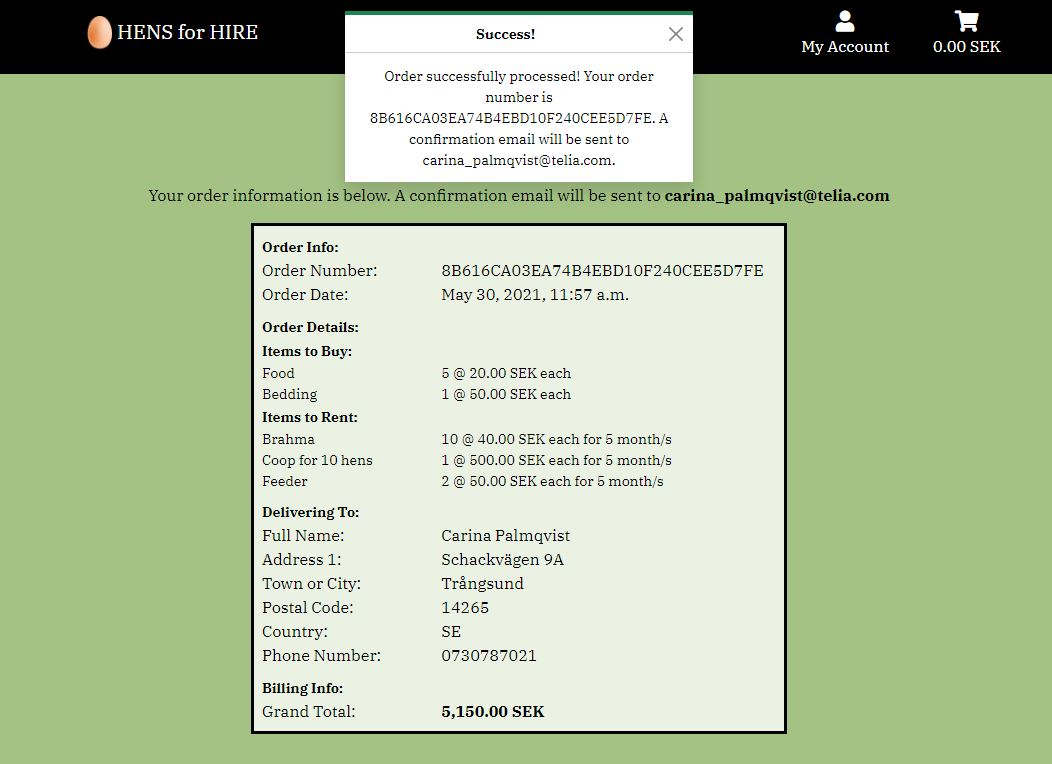
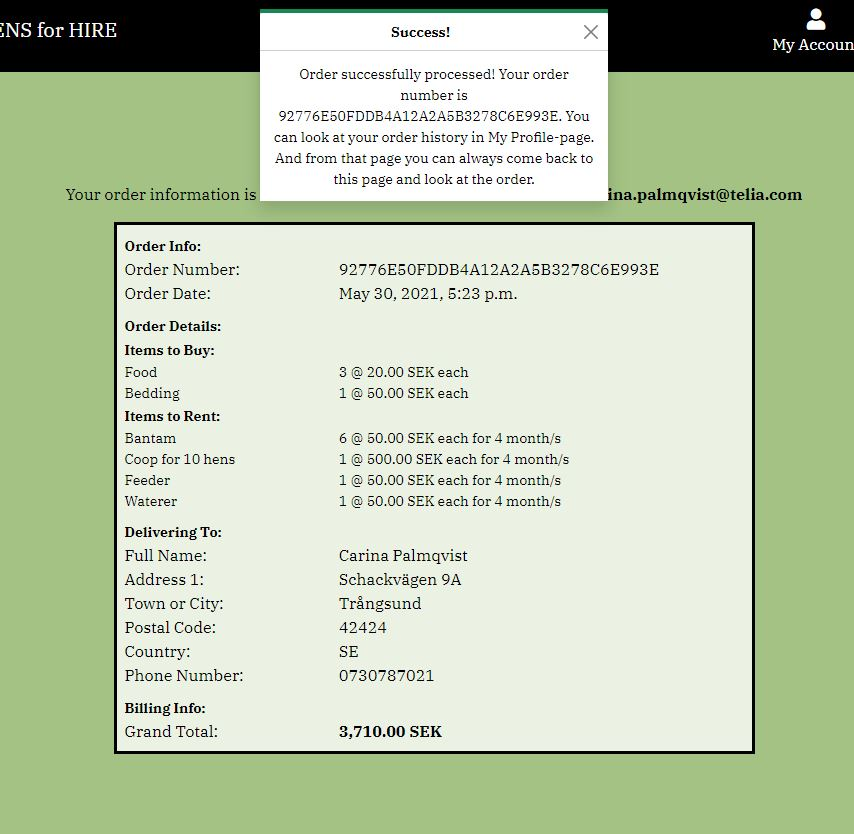
Checkout: Updated message for checkout success

diff --git a/checkout/views.py b/checkout/views.py
@@ -391,8 +391,9 @@ def checkout_success(request, order_number):
                 user_profile_form.save()
 
     messages.success(request, f'Order successfully processed! \
-        Your order number is {order_number}. A confirmation \
-            email will be sent to {order.email}.')
+        Your order number is {order_number}. You can look at your order history in\
+            My Profile-page. And from that page you can always come back to\
+            this page and look at the order.')
 
     if 'cart' in request.session:
         del request.session['cart']

diff --git a/profiles/views.py b/profiles/views.py
@@ -62,7 +62,6 @@ def order_history(request, order_number):
 
     messages.info(request, (
         f'This is a past confirmation for order number {order_number}. '
-        'A confirmation email was sent on the order date.'
     ))
 
     template = 'checkout/checkout_success.html'

diff --git a/README.md b/README.md
@@ -148,7 +148,8 @@ Wireframes for desktop:
 - [Desktop](https://github.com/Carina-P/hire-hens/blob/master/wireframes/wireframes_desktop.png)
 
 ##### Major changes compared to wireframes
-Cart: The **Qty column** in the table, on tablets and desktop, in reality contains a "number stepper" and the buttons Update and Delete are also part of the column.
+- Cart: The **Qty column** in the table, on tablets and desktop, in reality contains a "number stepper" and the buttons Update and Delete are also part of the column.
+- Calling it Log In, Log Out and Sign Up (not Sign In, Sign Out or Register).
 
 #### Information Architecture
 ##### Database Choice
